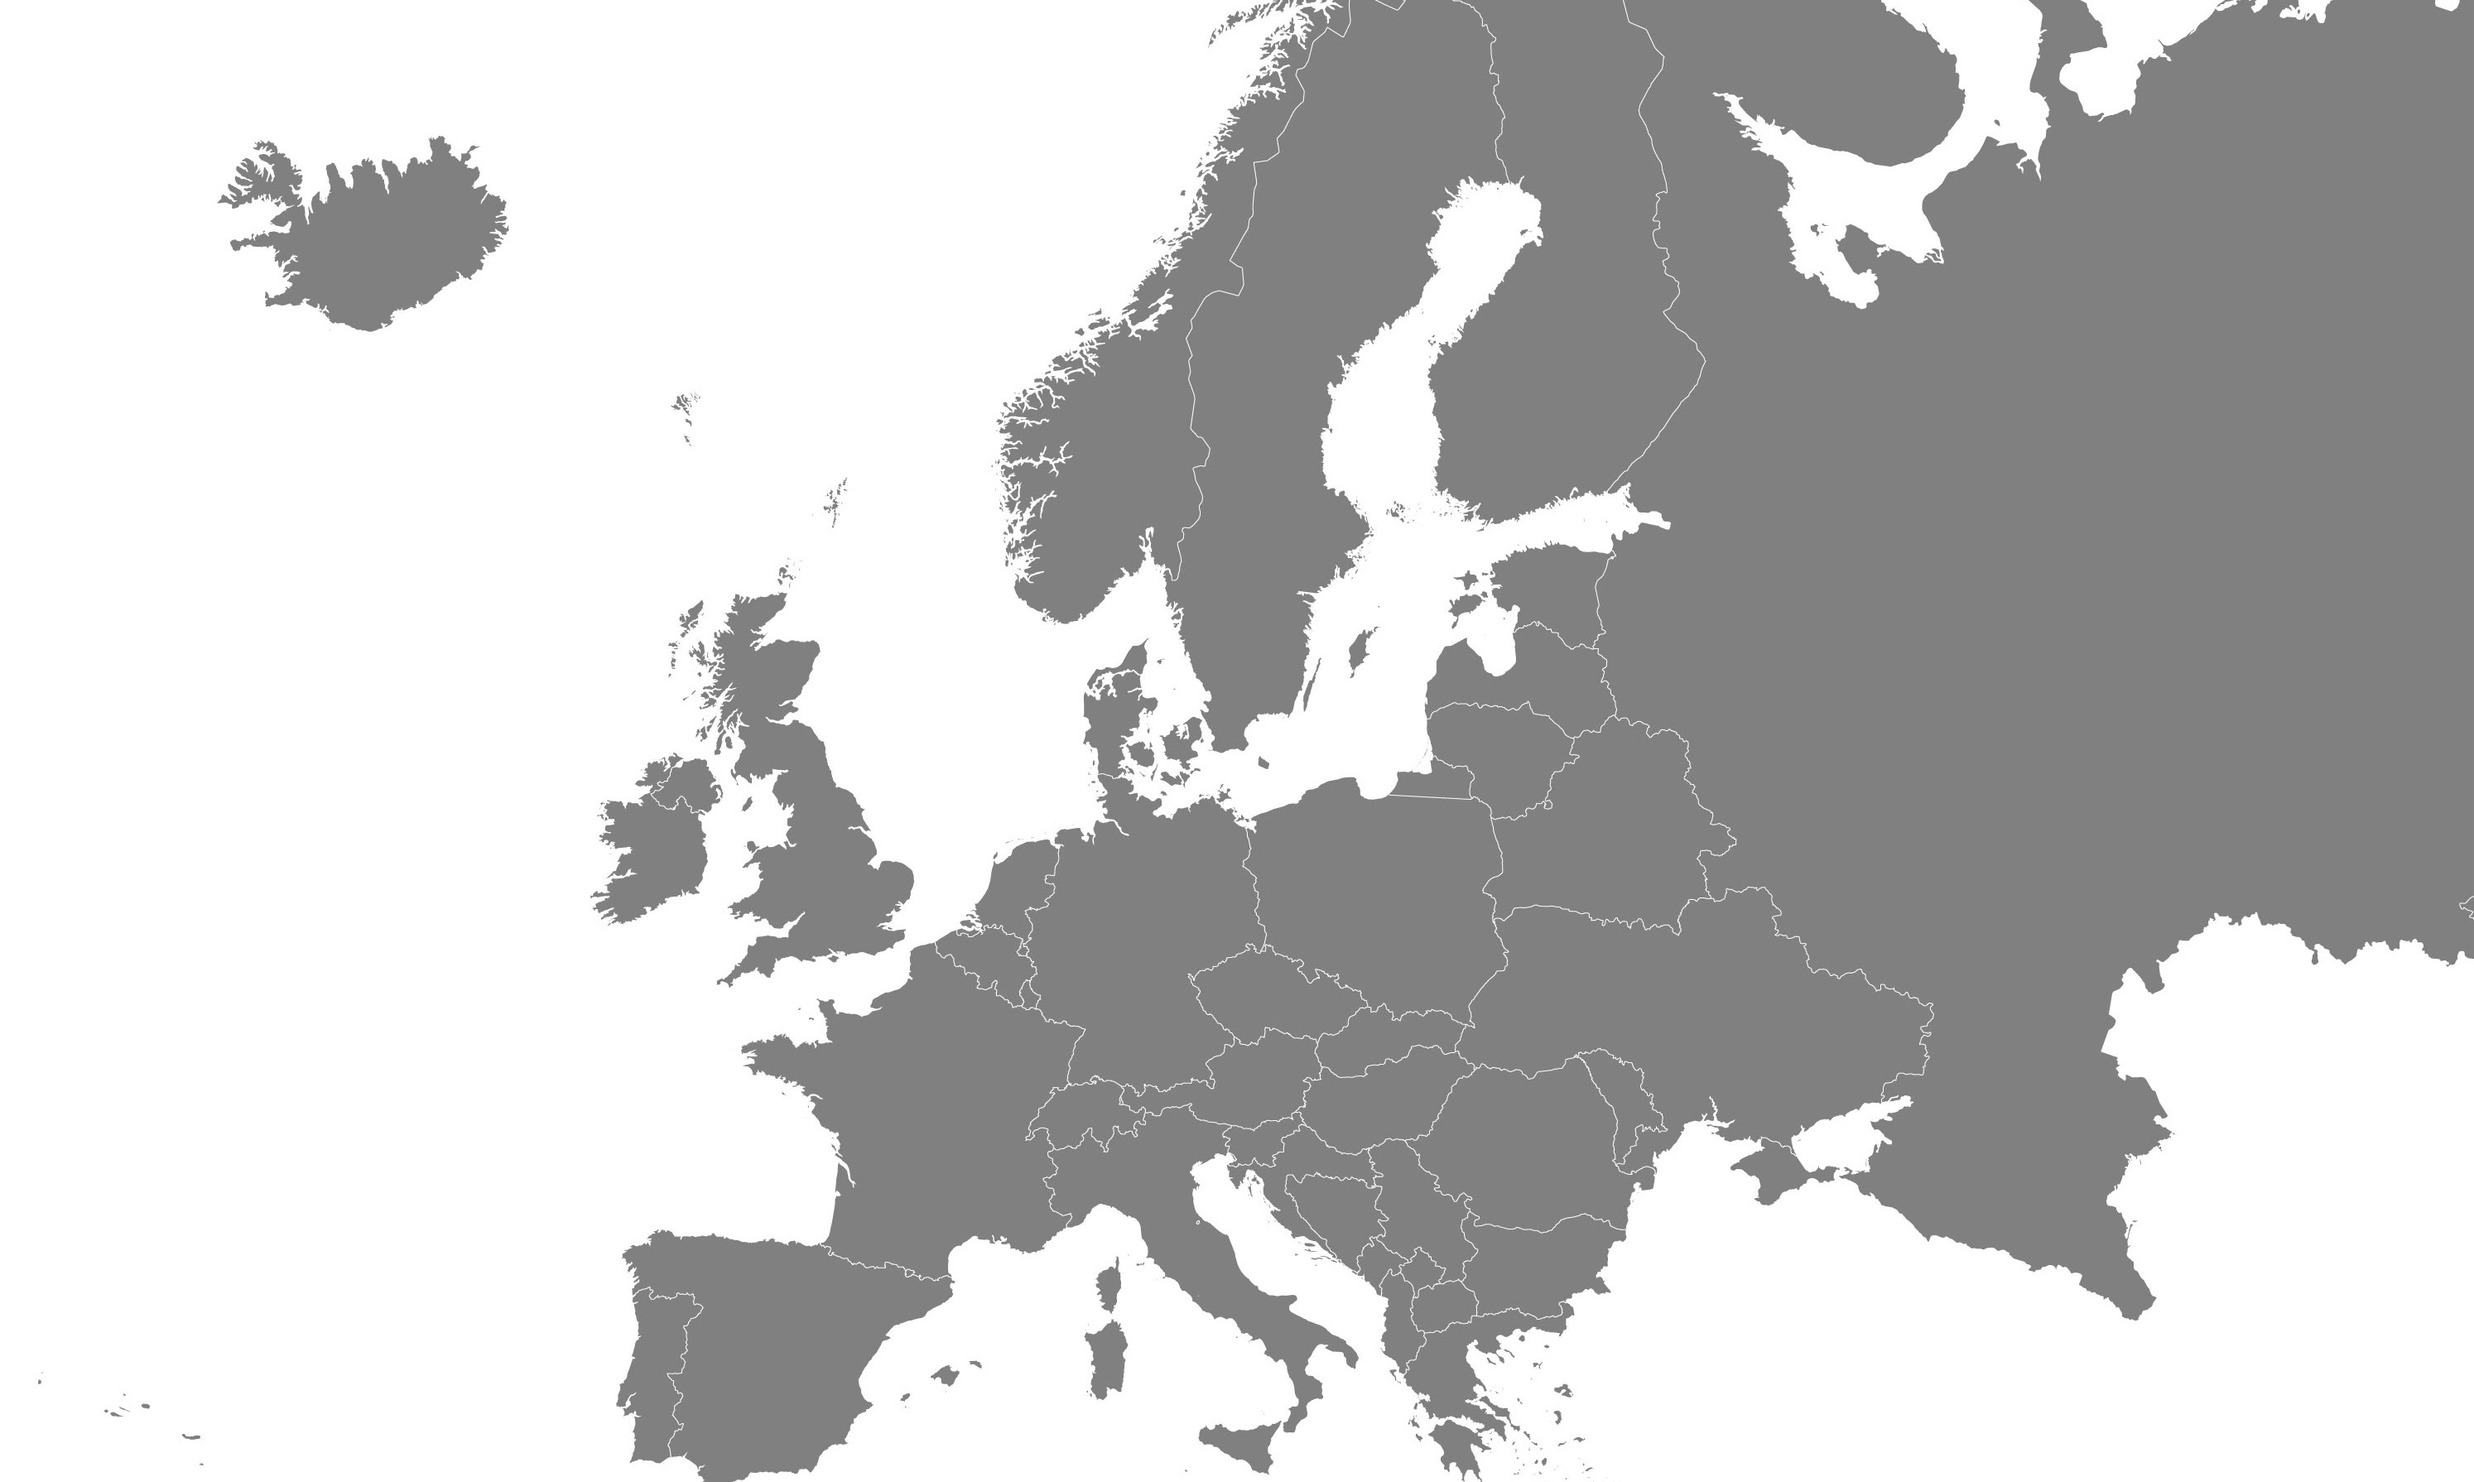
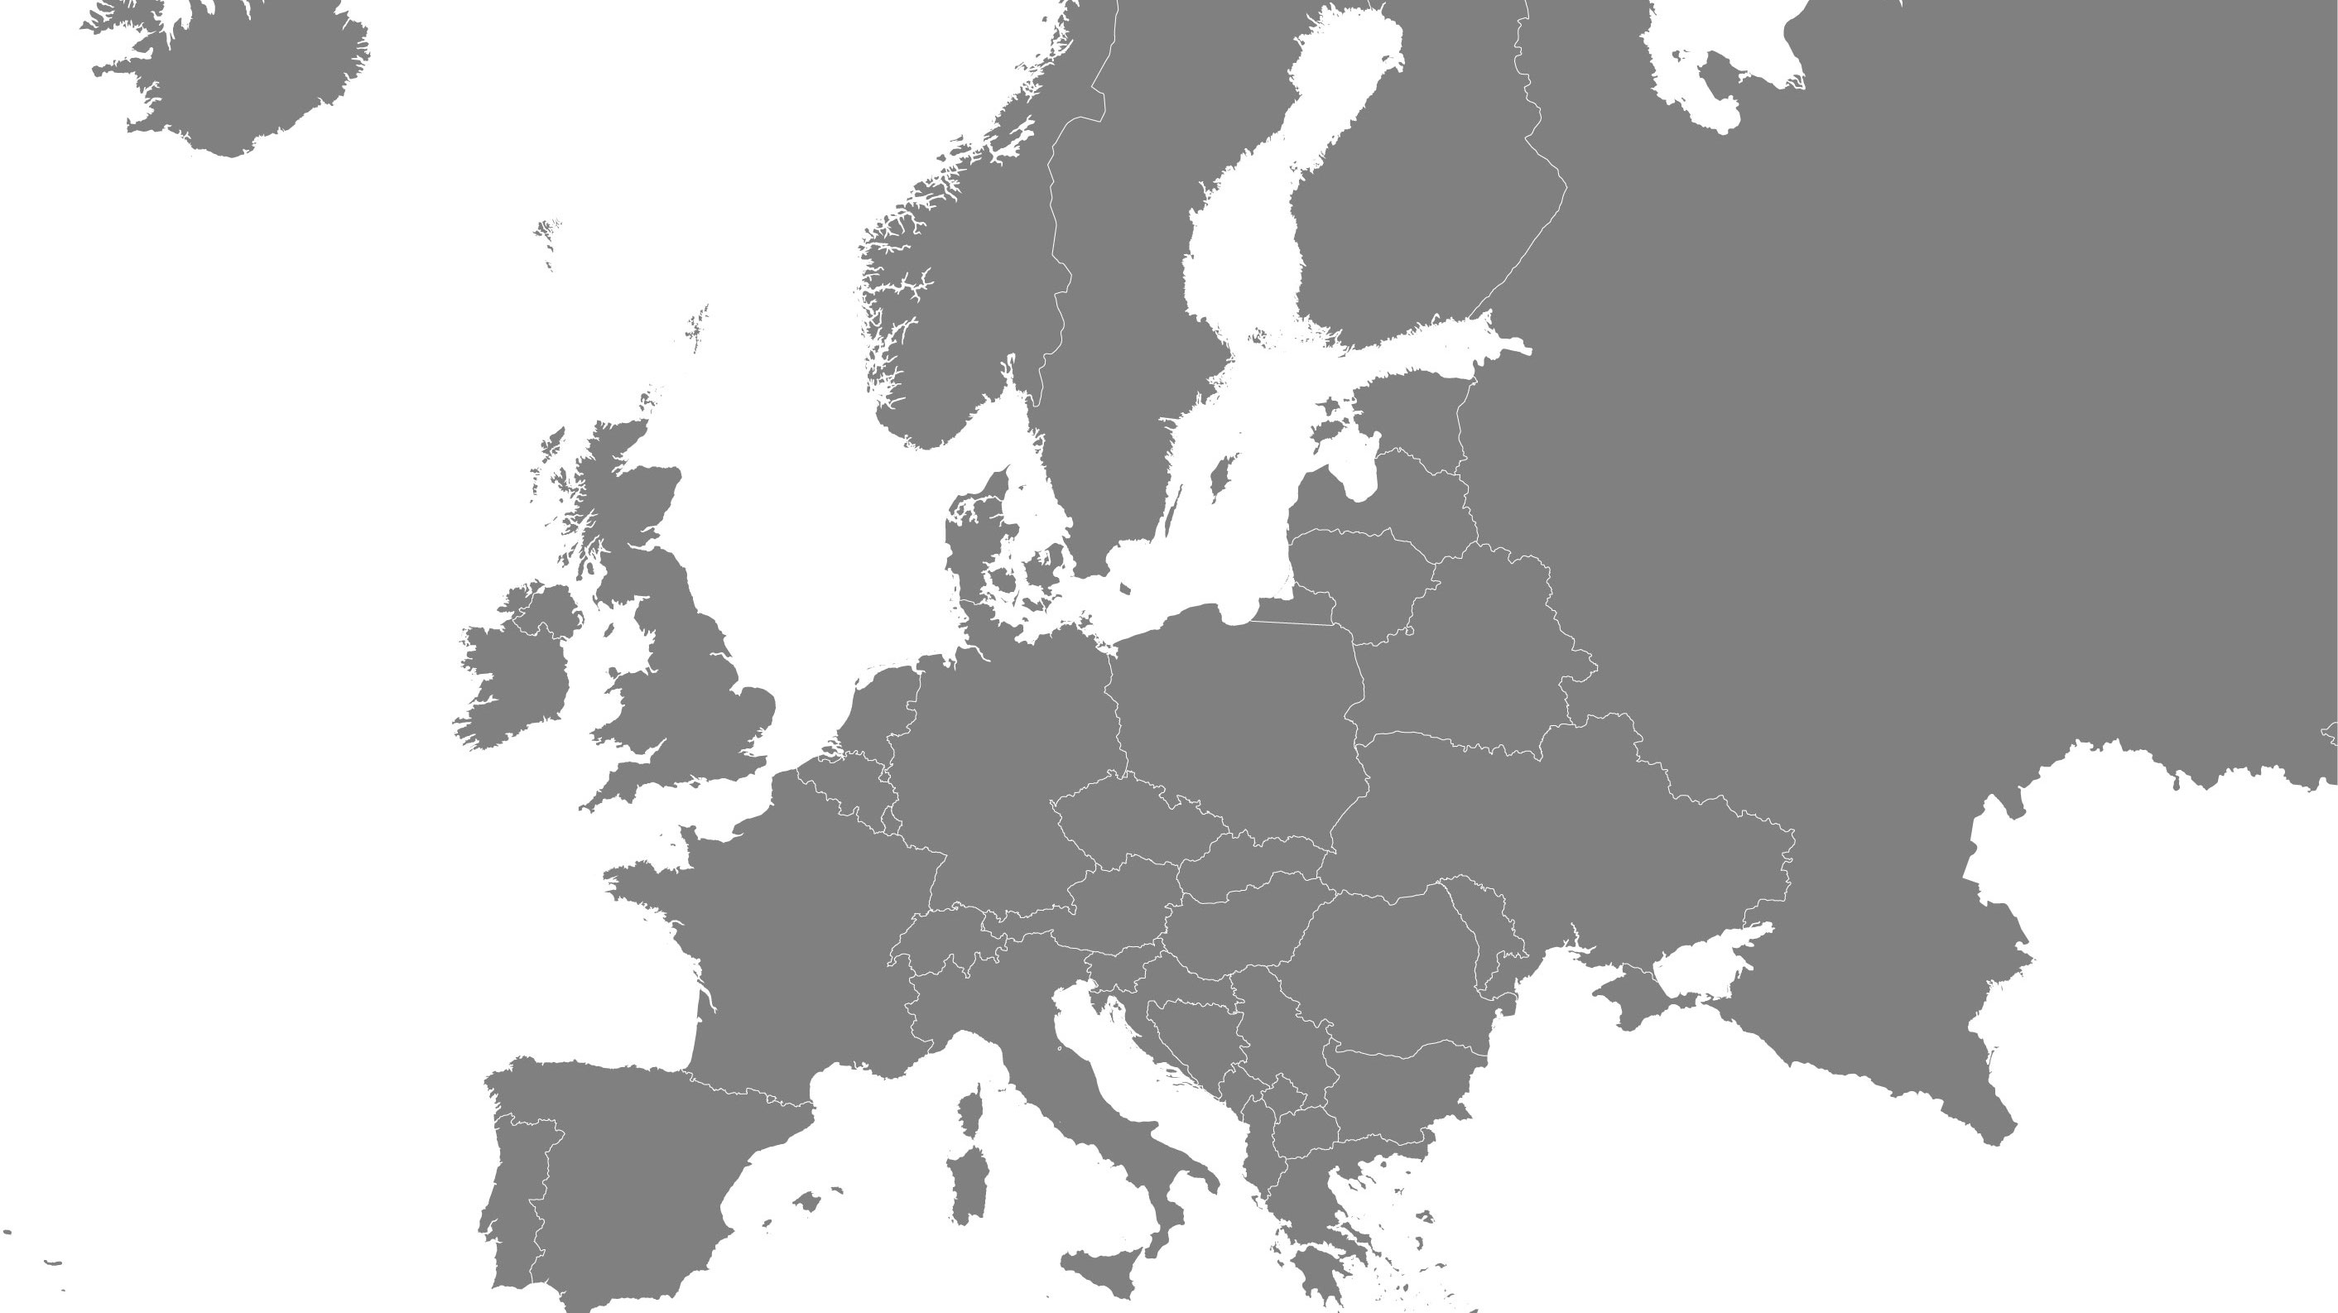
Changed and added code
Changed the footers logo to bigger according to the design. Created the been/fav boxes and its css. Added the fav images and the europe map.

diff --git a/components/userBeenFavBox/beenFavbox.js b/components/userBeenFavBox/beenFavbox.js
@@ -1,6 +1,56 @@
 "use strict";
 
+function renderBeenFavLists (parent, title) {
+    let listBox = document.createElement("div");
+    listBox.className = "listBox";
+    parent.appendChild(listBox);
 
-function renderBeenfavBox (parent, title) {
-    
+    let h1 = document.createElement("h1");
+    h1.textContent = title;
+    listBox.appendChild(h1);
+
+    let list = document.createElement("ul");
+    listBox.appendChild(list);
+
+    let listItems = document.createElement("li");
+    listBox.appendChild(listItems);
+}
+
+function renderBeenfavCon (parent, type, containerId) {
+    let beenFavCon = document.createElement("div");
+    beenFavCon.className = "beenFavCon";
+    beenFavCon.id = containerId;
+    parent.appendChild(beenFavCon);
+
+    let titleBox = document.createElement("div");
+    titleBox.className = "titleBox";
+    beenFavCon.appendChild(titleBox);
+    let h1 = document.createElement("h1");
+    let icon = document.createElement("img");
+    icon.className = "icon";
+
+    if (type === "beenList") {
+        h1.textContent = "BEEN";
+        icon.setAttribute("src", "../../fonts/icons/marker.svg");
+    } else if (type === "wishlistList") {
+        h1.textContent = "WISHLIST";
+        icon.setAttribute("src", "../../fonts/icons/favouritered.png");
+    }
+    titleBox.appendChild(h1);
+    titleBox.appendChild(icon);
+
+    let listCon = document.createElement("div");
+    listCon.className = "listCon";
+    beenFavCon.appendChild(listCon);
+
+    let deleteButton = document.createElement("button");
+    deleteButton.id = "deleteButton";
+    deleteButton.textContent = "UN-BEEN";
+    if (containerId === "beenList") {
+        beenFavCon.appendChild(deleteButton);
+    }
+
+    renderBeenFavLists(listCon, "Regions");
+    renderBeenFavLists(listCon, "Countries");
+    renderBeenFavLists(listCon, "Cities");
 }

diff --git a/components/userBeenFavBox/beenFavBox.css b/components/userBeenFavBox/beenFavBox.css
@@ -1,0 +1,74 @@
+.beenFavCon {
+    display: grid;
+    grid-template-rows: 1fr;
+    margin: 40px;
+}
+
+.icon {
+    height: 50px;
+    margin-left: 20px;
+    margin-bottom: 15px ;
+}
+
+.titleBox {
+    display: flex;
+    justify-content: center;
+    align-items: center;
+}
+
+.titleBox > h1 {
+    font-size: 70px;
+    font-family: Metal;
+    margin: 0;
+}
+
+.listBox {
+    width: 380px;
+    height: 520px;
+    border-radius: 10px;
+    justify-self: center;
+    }
+
+.listBox h1 {
+    margin: 20px;
+}
+
+.listBox li {
+    list-style: none;
+}
+
+.listCon {
+    display: grid;
+    grid-template-columns: 1fr 1fr 1fr;
+}
+
+#deleteButton {
+    width: fit-content;
+    margin-right: 50px;
+    margin-top: 20px;
+    justify-self: flex-end;
+}
+
+.beenFavCon#beenList .listBox:nth-of-type(1) {
+    background-color:#83ADF6;
+}
+
+.beenFavCon#beenList .listBox:nth-of-type(2) {
+    background-color: #B1CEFF;
+}
+
+.beenFavCon#beenList .listBox:nth-of-type(3) {
+    background-color: #D1E2FF;
+}
+
+.beenFavCon#wishlistList .listBox:nth-of-type(1) {
+    background-color: #FFBC85;
+}
+
+.beenFavCon#wishlistList .listBox:nth-of-type(2) {
+    background-color: #FFD1AB;
+}
+
+.beenFavCon#wishlistList .listBox:nth-of-type(3) {
+    background-color: #FDDEC5;
+}

diff --git a/components/navigation/nav.js b/components/navigation/nav.js
@@ -1,6 +1,6 @@
 function renderNav(parent, currentPage) {
 
-    let img_src = window.location.href.includes("pages") ? "../../fonts/icons/user.png" : "./fonts/icons/user.png"; // adams kod
+    let img_src = window.location.href.toLowerCase().includes("pages") ? "../../fonts/icons/user.png" : "./fonts/icons/user.png"; // adams kod
 
     let nav = document.createElement("nav");
     nav.id = "mainPagesNav";
@@ -28,10 +28,6 @@ function renderNav(parent, currentPage) {
         {
             name: "Cities",
             link: "./pages/citiesPage/cities.html"
-        },
-        {
-            name: "User Page",
-            link: "./pages/user.html",
         }
     ];
 
@@ -67,7 +63,7 @@ function renderNav(parent, currentPage) {
     UserCon.appendChild(username);
 
     let userIcon = document.createElement("img");
-    userIcon.setAttribute("src", img_src); // Adams kod
+    userIcon.setAttribute("src", img_src); // Adams
     userIcon.setAttribute("alt", "User Icon");
     userIcon.classList.add("userIconNav");
     UserCon.appendChild(userIcon);

diff --git a/pages/userPage/user.js b/pages/userPage/user.js
@@ -10,7 +10,7 @@ function renderUserHeader(parent) {
     myTextBox.id = "myTextBox";
     let myText = document.createElement("h1");
     myText.id = "myText";
-    myText.textContent = "MY";
+    myText.textContent = "My";
     myTextBox.appendChild(myText);
 
 
@@ -23,7 +23,7 @@ function renderUserHeader(parent) {
 
     let sText = document.createElement("h1");
     sText.id = "sText";
-    sText.textContent = "S";
+    sText.textContent = "s";
     logoBox.appendChild(sText);
 
     header.appendChild(myVoyages);
@@ -32,4 +32,6 @@ function renderUserHeader(parent) {
 }
 renderNav(wrapper);
 renderUserHeader(wrapper);
+renderBeenfavCon(wrapper, "beenList", "beenList");
+renderBeenfavCon(wrapper, "wishlistList", "wishlistList");
 renderFooter(wrapper);

diff --git a/pages/userPage/user.html b/pages/userPage/user.html
@@ -3,6 +3,7 @@
 <head>
     <meta charset="UTF-8">
     <meta name="viewport" content="width=device-width, initial-scale=1.0">
+    <link rel="stylesheet" href="../../components/userBeenFavBox/beenFavBox.css">
     <link rel="stylesheet" href="../../components/footer/footer.css">
     <link rel="stylesheet" href="../../components/navigation/nav.css">
     <link rel="stylesheet" href="../../components/logo/logo.css">
@@ -12,7 +13,7 @@
 </head>
 <body>
     <div id="wrapper"></div>
-
+    <script src="../../components/userBeenFavBox/beenFavbox.js"></script>
     <script src="../../components/footer/footer.js"></script>
     <script src="../../components/navigation/nav.js"></script>
     <script src="../../components/logo/logo.js"></script>

diff --git a/pages/userPage/user.css b/pages/userPage/user.css
@@ -1,15 +1,15 @@
 header {
     background: url("../../images/europemap.jpg");
     background-size: cover;
-    height: 800px;
+    height: 750px;
     display: flex;
     align-items: center;
 }
 
 #myVoyages {
     position: absolute;
-    top: 300px;
-    right: 100px;
+    top: 200px;
+    right: 80px;
 }
 
 #logoBox {
@@ -19,7 +19,7 @@ header {
 #sText {
     font-family: Metal;
     color: white;
-    font-size: 50px;
+    font-size: 60px;
 }
 
 #myTextBox {
@@ -32,8 +32,8 @@ header {
     bottom: 100px;
 
     font-family: Metal;
-    color: white;
     margin: 0;
-    font-size: 50px;
-
+    font-size: 60px;
+    color: white;
+    margin-bottom: 10px;
 }

diff --git a/components/footer/footer.js b/components/footer/footer.js
@@ -5,7 +5,7 @@ function renderFooter (parent) {
 
     let logoBox = document.createElement("div");
     logoBox.id = "logoBox";
-    renderLogo(logoBox, "45px", "white");
+    renderLogo(logoBox, "60", "white");
     footer.appendChild(logoBox);
 
     let contactBox = document.createElement("div");
